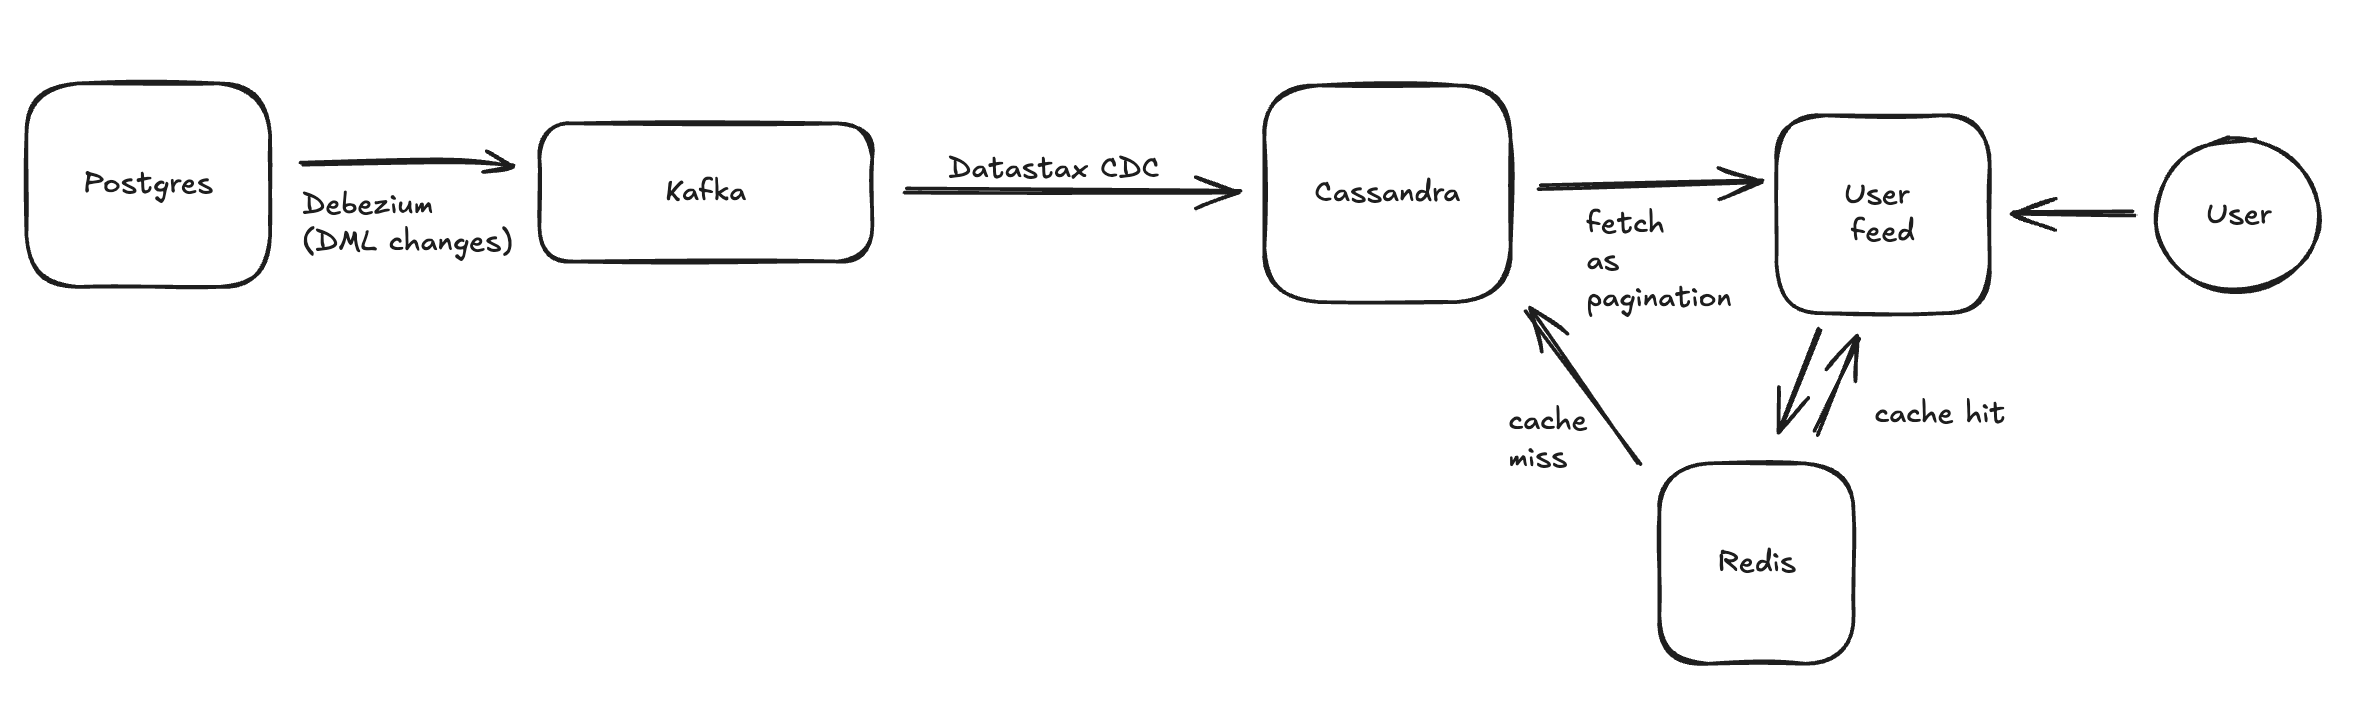
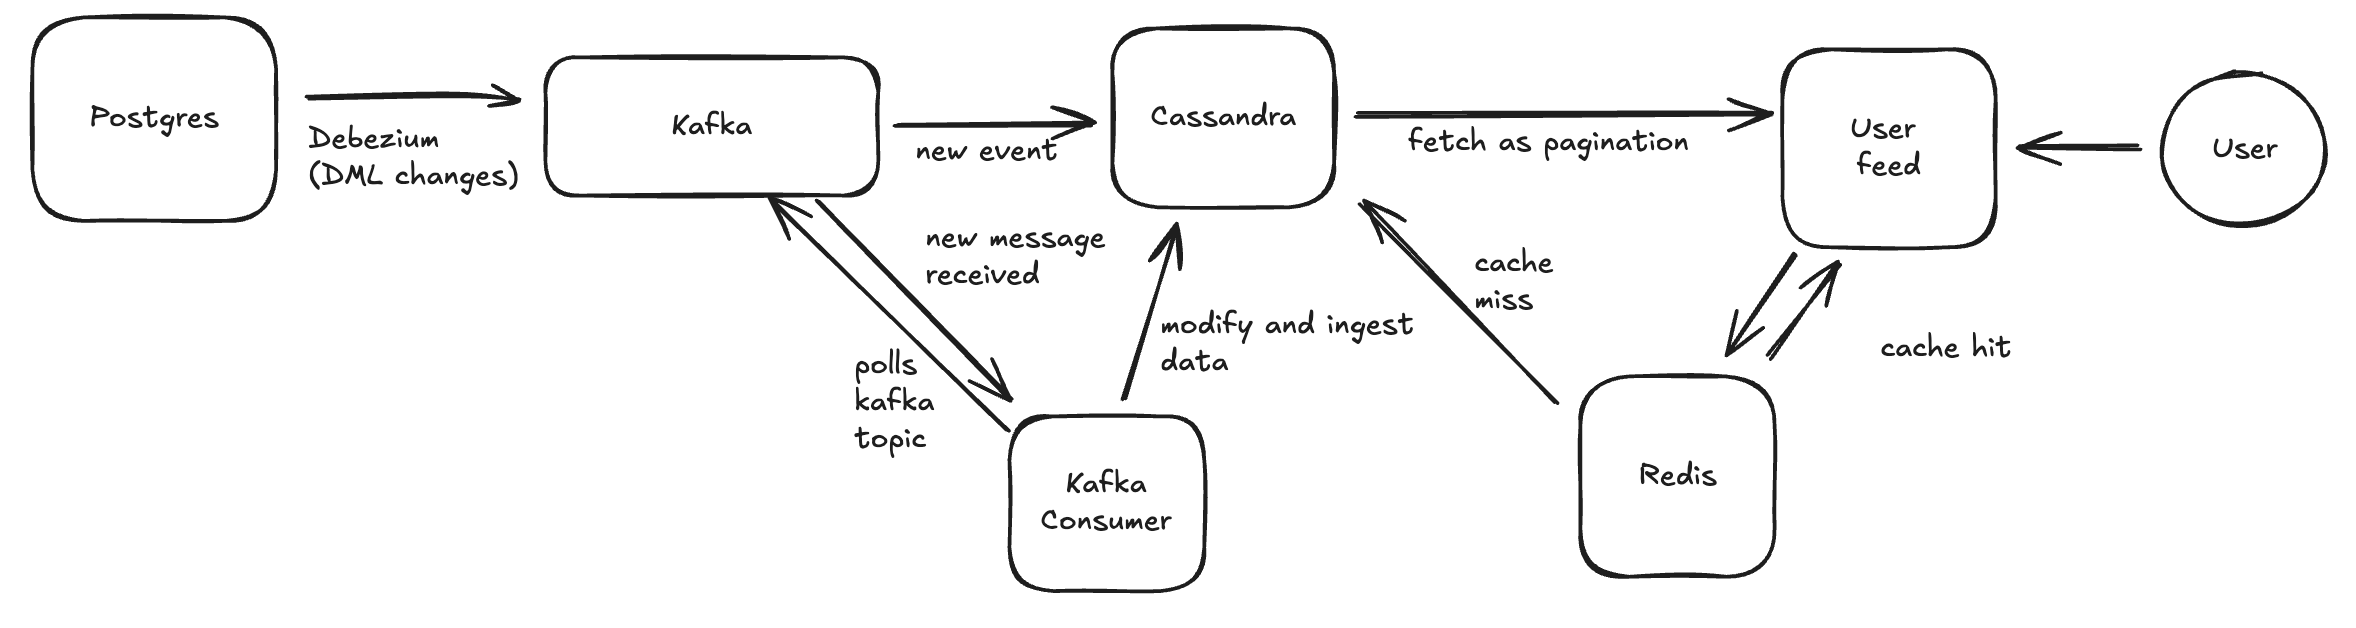
kafka consumer was enough

diff --git a/README.md b/README.md
@@ -13,9 +13,7 @@ Key Technical Components:
 
 2. Change Data Capture (Debezium)
 - Monitors PostgreSQL Write-Ahead Logs (WAL) for DML changes
-- Creates change events in Avro format with before/after states
 - Ensures reliable capture of all data modifications
-- Maintains offset tracking for exactly-once delivery
 - Publishes changes to dedicated Kafka topics
 
 3. Message Queue (Apache Kafka)
@@ -25,17 +23,10 @@ Key Technical Components:
 - Handles back-pressure and provides buffer capacity
 - Topics configured with appropriate retention and replication
 
-4. Change Data Capture (DataStax)
-- Uses DataStax CDC Source Connector to capture changes from Kafka
-- Automatically maps Kafka events to Cassandra table structures
-- Maintains exactly-once delivery semantics
-- Handles schema evolution and data type conversions
-- Built-in dead letter queue for error handling
-- Configurable batching and throughput control
-- Native integration with Cassandra authentication and security
-- Provides detailed monitoring and metrics
-- Supports automatic offset management
-- Handles backpressure natively through Cassandra driver
+4. Kafka Consumer 
+- Polls kafka topic for new message.
+- When we receive new message/event, it modifies the data according to the reqd. format. 
+- Saves the data in cassandra DB.
 
 5. Cache Layer (Redis)
 - In-memory caching of frequently accessed feeds
@@ -51,22 +42,14 @@ Key Technical Components:
 - Stores feed items in time-sorted order
 - Supports efficient pagination queries
 
-Data Flow:
+### Data Flow
 1. User performs activity (follow/post/comment/like) via REST API
 2. Activity is recorded in PostgreSQL tables
 3. Debezium captures change events from PostgreSQL WAL
 4. Events are published to corresponding Kafka topics
-5. Datastax CDC captures change events from Kafka topics and transfer them to Cassandra DB. 
+5. Kafka consumer polls the kafka topic for new event messages and if there is one, it modifies and ingests data to Cassandra DB.
 8. Redis caches frequently accessed feed segments
 9. Feed API serves requests from cache with Cassandra fallback
-
-The architecture ensures:
-- Exactly-once processing semantics
-- Horizontal scalability at each layer
-- High write throughput for activity ingestion
-- Low latency reads for feed serving
-- Fault tolerance and high availability
-- Efficient pagination support
 
 
 ### Workflow
